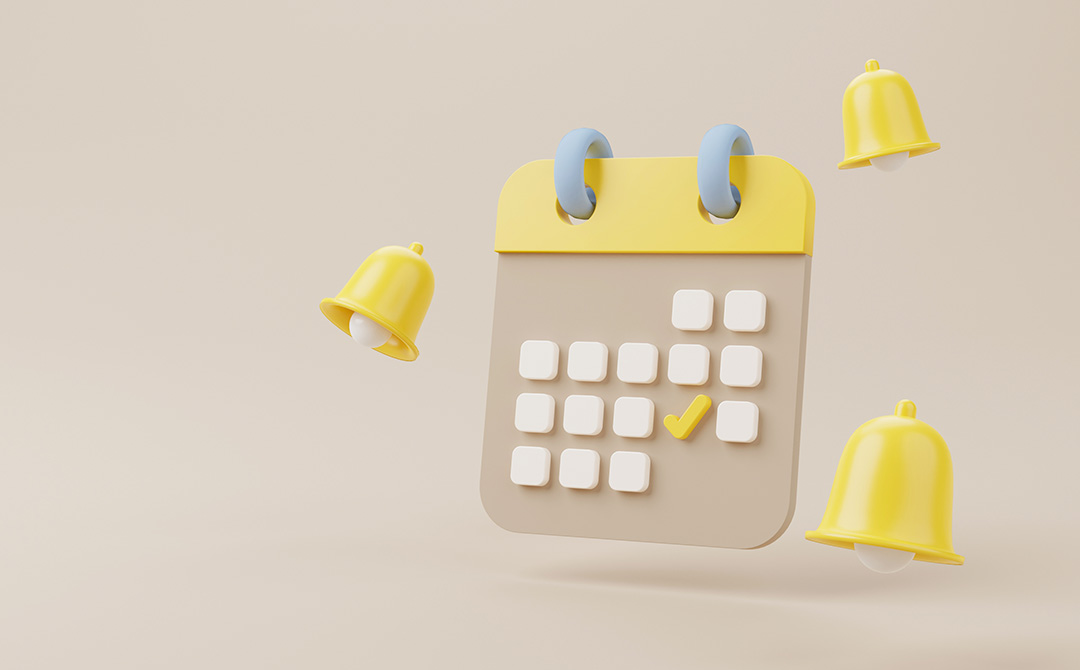
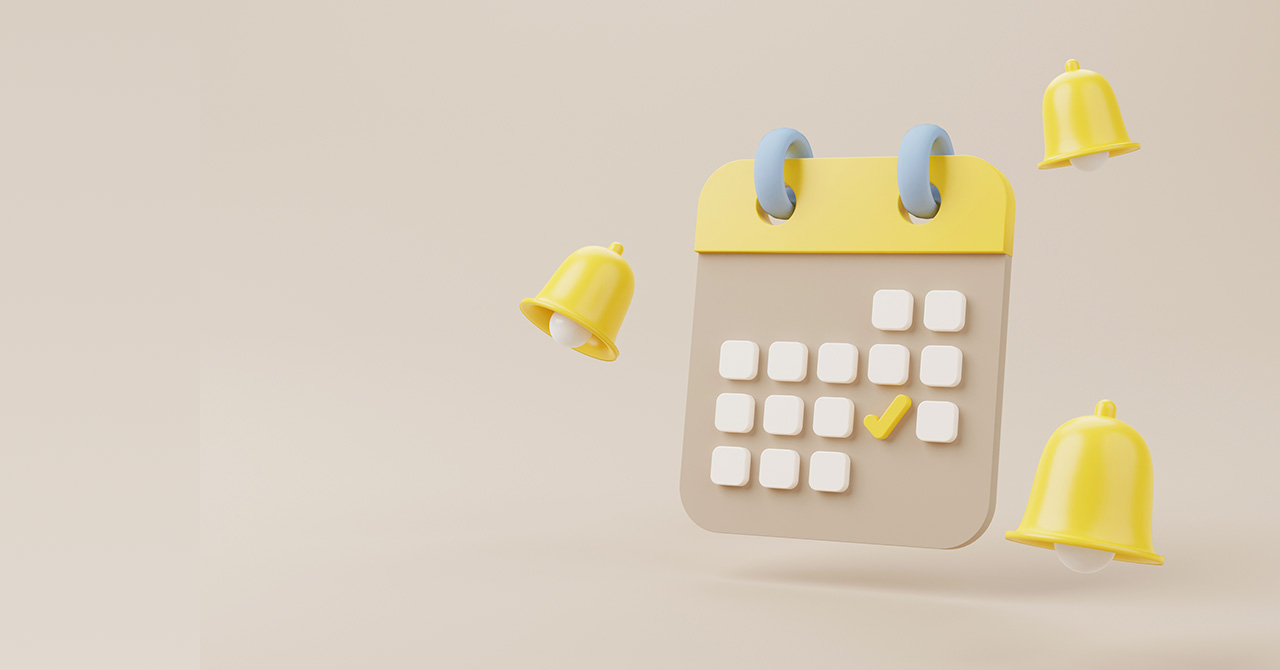
applied responsive ui+

Changed region(s): [[0.275, 0.0896, 0.9167, 0.8657], [0.5194, 0.8358, 0.5806, 0.8657]]

diff --git a/components/ui/main/Hero.tsx b/components/ui/main/Hero.tsx
@@ -4,29 +4,11 @@ import Button from "../Button";
 
 export default function Hero() {
 	return (
-		<div className="relative flex h-screen flex-col items-center justify-center text-center">
-			<div className="hidden lg:block">
-				<Image
-					src="/images/main/hero_bg_web.jpg"
-					alt="main-bg"
-					fill
-					className="z-[-2]"
-					priority
-				/>
-			</div>
-			<div className="block lg:hidden">
-				<Image
-					src="/images/main/hero_bg_web.jpg"
-					alt="main-bg"
-					fill
-					className="z-[-2]"
-					priority
-				/>
-			</div>
-			<div className="mx-auto text-center text-[60px] leading-[72.61px]">
+		<div className="relative flex h-screen flex-col items-center bg-[url('/images/main/hero_bg_web.jpg')] bg-contain bg-bottom bg-no-repeat pt-[160px] text-center lg:justify-center lg:pt-0">
+			<div className="mx-auto text-center text-[56px] leading-[64px] lg:text-[80px] lg:leading-[96px]">
 				<div className="font-bold">
-					<div className="flex h-[72.61px] gap-x-4 overflow-hidden">
-						<div className="animate-[text-animation_6s_linear_infinite]">
+					<div className="flex h-[64px] gap-x-4 overflow-hidden lg:h-[96px]">
+						<div className="animate-[text-animation-mobile_6s_linear_infinite] lg:animate-[text-animation-web_6s_linear_infinite]">
 							<h1>Grow</h1>
 							<h1>Build</h1>
 							<h1>Make</h1>
@@ -35,8 +17,8 @@ export default function Hero() {
 						</div>
 						<h1>your</h1>
 					</div>
-					<div className="mt-1 h-[72.61px] overflow-hidden">
-						<div className="animate-[text-animation_6s_linear_infinite] text-primary">
+					<div className="mt-1 h-[64px] overflow-hidden lg:h-[96px]">
+						<div className="animate-[text-animation-mobile_6s_linear_infinite] text-primary lg:animate-[text-animation-web_6s_linear_infinite]">
 							<h1>Business</h1>
 							<h1>Brand</h1>
 							<h1>Products</h1>
@@ -53,6 +35,36 @@ export default function Hero() {
 					</Link>
 				</div>
 			</div>
+			{/* <div className="hidden lg:block">
+				<Image
+					src="/images/main/hero_bg_web.jpg"
+					alt="main-bg"
+					width={1280}
+					height={1080}
+					className="z-[-2]"
+					priority
+				/>
+			</div>
+			<div className="hidden md:block lg:hidden">
+				<Image
+					src="/images/main/hero_bg_web.jpg"
+					alt="main-bg"
+					width={720}
+					height={604}
+					className="z-[-2]"
+					priority
+				/>
+			</div>
+			<div className="block md:hidden">
+				<Image
+					src="/images/main/hero_bg_web.jpg"
+					alt="main-bg"
+					width={360}
+					height={302}
+					className="z-[-2]"
+					priority
+				/>
+			</div> */}
 		</div>
 	);
 }

diff --git a/components/layout/Header.tsx b/components/layout/Header.tsx
@@ -4,39 +4,62 @@ import Image from "next/image";
 
 function Header() {
 	return (
-		<header className="fixed z-10 flex h-[56px] w-full items-center justify-between bg-transparent bg-opacity-90 px-4 md:container md:px-10 lg:bg-white">
-			<div className="hidden lg:block">
-				<Link
-					href="/"
-					className="flex items-baseline gap-x-3 text-2xl font-bold"
-				>
-					<Image
-						src="/images/logo/wiillus_logo.svg"
-						alt="Logo"
-						width={101}
-						height={30}
-					/>{" "}
-					<div className="text-text-secondary">|</div>
-					<div>Coworking</div>
-				</Link>
+		<header className="navbar fixed z-10 h-[100px] justify-between bg-transparent bg-opacity-90 px-4 lg:container lg:bg-white">
+			<div className="navbar-start">
+				<div className="hidden lg:block">
+					<Link
+						href="/"
+						className="flex items-baseline gap-x-3 text-2xl font-bold"
+					>
+						<Image
+							src="/images/logo/wiillus_logo.svg"
+							alt="Logo"
+							width={101}
+							height={30}
+						/>{" "}
+						<div className="text-text-secondary">|</div>
+						<div>Coworking</div>
+					</Link>
+				</div>
+				<div className="block lg:hidden">
+					<Link
+						href="/"
+						className="flex items-baseline gap-x-3 text-base font-bold"
+					>
+						<Image
+							src="/images/logo/wiillus_logo.svg"
+							alt="Logo"
+							width={60.5}
+							height={15}
+						/>{" "}
+						<div className="text-text-secondary">|</div>
+						<div>Coworking</div>
+					</Link>
+				</div>
 			</div>
-			<div className="block lg:hidden">
-				<Link
-					href="/"
-					className="flex items-baseline gap-x-3 text-sm font-bold"
-				>
-					<Image
-						src="/images/logo/wiillus_logo.svg"
-						alt="Logo"
-						width={50.5}
-						height={15}
-					/>{" "}
-					<div className="text-text-secondary">|</div>
-					<div>Coworking</div>
-				</Link>
-			</div>{" "}
-			<div className="hidden lg:block">
-				<Navigation />
+			<div className="navbar-end">
+				<div className="hidden lg:block">
+					<Navigation />
+				</div>
+				<div className="dropdown-end dropdown lg:hidden">
+					<label tabIndex={0} className="btn-ghost btn-circle btn">
+						<svg
+							xmlns="http://www.w3.org/2000/svg"
+							className="h-5 w-5"
+							fill="none"
+							viewBox="0 0 24 24"
+							stroke="currentColor"
+						>
+							<path
+								strokeLinecap="round"
+								strokeLinejoin="round"
+								strokeWidth="2"
+								d="M4 6h16M4 12h16M4 18h7"
+							/>
+						</svg>
+					</label>
+					<Navigation />
+				</div>
 			</div>
 		</header>
 	);

diff --git a/tailwind.config.js b/tailwind.config.js
@@ -43,16 +43,27 @@ module.exports = {
 						transform: "translate3d(-110%, 0, 0)",
 					},
 				},
-				"text-animation": {
+				"text-animation-mobile": {
 					"0%": { transform: "translate3d(0, 0, 0)" },
 					"20%": { transform: "translate3d(0, 0, 0)" },
-					"25%": { transform: "translate3d(0, -72.61px, 0)" },
-					"45%": { transform: "translate3d(0, -72.61px, 0)" },
-					"50%": { transform: "translate3d(0, -145.22px, 0)" },
-					"70%": { transform: "translate3d(0, -145.22px, 0)" },
-					"75%": { transform: "translate3d(0, -217.83px, 0)" },
-					"95%": { transform: "translate3d(0, -217.83px, 0)" },
-					"100%": { transform: "translate3d(0, -290.44px, 0)" },
+					"25%": { transform: "translate3d(0, -64px, 0)" },
+					"45%": { transform: "translate3d(0, -64px, 0)" },
+					"50%": { transform: "translate3d(0, -128px, 0)" },
+					"70%": { transform: "translate3d(0, -128px, 0)" },
+					"75%": { transform: "translate3d(0, -192px, 0)" },
+					"95%": { transform: "translate3d(0, -192px, 0)" },
+					"100%": { transform: "translate3d(0, -256px, 0)" },
+				},
+				"text-animation-web": {
+					"0%": { transform: "translate3d(0, 0, 0)" },
+					"20%": { transform: "translate3d(0, 0, 0)" },
+					"25%": { transform: "translate3d(0, -96px, 0)" },
+					"45%": { transform: "translate3d(0, -96px, 0)" },
+					"50%": { transform: "translate3d(0, -192px, 0)" },
+					"70%": { transform: "translate3d(0, -192px, 0)" },
+					"75%": { transform: "translate3d(0, -288px, 0)" },
+					"95%": { transform: "translate3d(0, -288px, 0)" },
+					"100%": { transform: "translate3d(0, -384px, 0)" },
 				},
 			},
 		},

diff --git a/components/ui/contact_us/Hero.tsx b/components/ui/contact_us/Hero.tsx
@@ -4,13 +4,14 @@ import Button from "../Button";
 
 export default function Hero() {
 	return (
-		<div className="relative z-[-3] flex h-screen flex-col bg-gradient-to-b from-[#DCD2C7] to-[#D8CEC2] lg:h-[720px] lg:justify-center">
+		<div className="relative z-[-3] flex h-screen flex-col bg-gradient-to-b from-[#DCD2C7] to-[#E1D8CF] lg:h-[670px] lg:justify-center lg:from-[#D9CFC3]">
 			<div className="hidden lg:block">
 				<Image
 					src="/images/contact/hero_bg_web.png"
 					alt="contact-bg"
-					fill
-					className="z-[-2]"
+					width={1280}
+					height={670}
+					className="absolute top-0 z-[-2]"
 					priority
 				/>
 			</div>
@@ -20,7 +21,7 @@ export default function Hero() {
 					alt="contact-bg"
 					width={360}
 					height={348}
-					className="absolute bottom-0 z-[-2]"
+					className="absolute bottom-0 right-0 z-[-2]"
 					priority
 				/>
 			</div>

diff --git a/components/ui/contact_us/Contact.tsx b/components/ui/contact_us/Contact.tsx
@@ -6,12 +6,12 @@ export default function Contact() {
 			id="contact-application"
 			className="flex flex-col items-center gap-y-[106px] pt-[120px] pb-[105px]"
 		>
-			<div className="flex flex-col items-center gap-y-[32px] lg:gap-y-[36px]">
+			<div className="flex flex-col items-center gap-y-[32px] lg:gap-y-[48px]">
 				<div className="text-center text-[28px] font-bold leading-[33.89px] lg:text-[60px] lg:leading-[72.61px]">
 					<h1>Let&apos;s make</h1>
 					<h1 className="text-primary">Great stories</h1>
 				</div>
-				<div className="text-[14px] leading-[18px] lg:text-[30px] lg:leading-[36.31px]">
+				<div className="text-[14px] leading-[18px] lg:text-[30px] lg:leading-[44px]">
 					<p>일을 사랑하는 팀 슬래시와</p>
 					<p>고민은 나누고, 성장인 함께</p>
 				</div>

diff --git a/components/layout/Navigation.tsx b/components/layout/Navigation.tsx
@@ -7,17 +7,19 @@ const menu = [
 ];
 
 function Navigation() {
+	const MenuList = menu?.map(({ name, path }) => (
+		<li key={path} className="py-1 lg:p-6">
+			<Link href={path}>{name}</Link>
+		</li>
+	));
 	return (
-		<nav>
-			<ul className="flex">
-				{menu?.map(({ name, path }) => (
-					<li
-						key={path}
-						className="p-4 text-xs font-bold text-primary md:p-6 lg:text-sm"
-					>
-						<Link href={path}>{name}</Link>
-					</li>
-				))}
+		<nav className="text-xs font-bold text-primary lg:text-sm">
+			<ul className="hidden lg:flex">{MenuList}</ul>
+			<ul
+				tabIndex={0}
+				className="dropdown-content menu rounded-box menu-compact mt-3 w-52 bg-base-100 p-2 shadow lg:hidden"
+			>
+				{MenuList}
 			</ul>
 		</nav>
 	);

diff --git a/components/ui/main/Partners.tsx b/components/ui/main/Partners.tsx
@@ -33,7 +33,18 @@ const partners = [
 	},
 ];
 
-const multipliedPartners = [...partners, ...partners, ...partners];
+const multipliedPartners = [
+	...partners,
+	...partners,
+	...partners,
+	...partners,
+	...partners,
+	...partners,
+	...partners,
+	...partners,
+	...partners,
+	...partners,
+];
 export default function Partners() {
 	return (
 		<div id="partners" className="flex flex-col items-center gap-y-12">
@@ -53,8 +64,8 @@ export default function Partners() {
 								<Image
 									alt={`logo-${image.split(".")[0]}`}
 									src={`/images/logo/${image}`}
-									width={90.5}
-									height={90.5}
+									width={140}
+									height={140}
 								/>
 							</div>
 						</div>

diff --git a/components/layout/Layout.tsx b/components/layout/Layout.tsx
@@ -3,7 +3,6 @@ import NotificationContext from "../../store/notification-context";
 import Notification from "../ui/Notification";
 import Footer from "./Footer";
 import Header from "./Header";
-import Homebar from "./Homebar";
 
 function Layout({ children }: any) {
 	const notificationCtx = useContext(NotificationContext);
@@ -15,7 +14,6 @@ function Layout({ children }: any) {
 			<Header />
 			<main>{children}</main>
 			<Footer />
-			<Homebar />
 			{activeNotification && <Notification {...activeNotification} />}
 		</div>
 	);

diff --git a/styles/globals.css b/styles/globals.css
@@ -120,7 +120,7 @@
 
 @keyframes scroll {
 	0% { transform: translateX(0); }
-	100% { transform: translateX(calc(-250px * 7))}
+	100% { transform: translateX(calc(-200px * 10))}
 }
 
 .slider {
@@ -151,8 +151,8 @@
 }
 
 .slide-track {
-  animation: scroll 40s linear infinite;
+  animation: scroll 60s linear infinite;
   display: flex;
-  width: calc(270px * 10 * 3);
+  width: calc(200px * 10 * 10);
   align-items: center;
 }

diff --git a/components/layout/Footer.tsx b/components/layout/Footer.tsx
@@ -2,7 +2,7 @@ import Image from "next/image";
 
 function Footer() {
 	return (
-		<footer className="mt-auto mb-[88px] flex h-[259px] w-full flex-col gap-y-6 bg-black py-10 pl-8 md:mb-0 md:h-[303px]">
+		<footer className="mt-auto flex h-[259px] w-full flex-col gap-y-6 bg-black py-10 pl-8 md:mb-0 md:h-[303px]">
 			<div className="flex flex-col gap-y-2.5">
 				<Image
 					src="/images/logo/wiillus_black.png"
